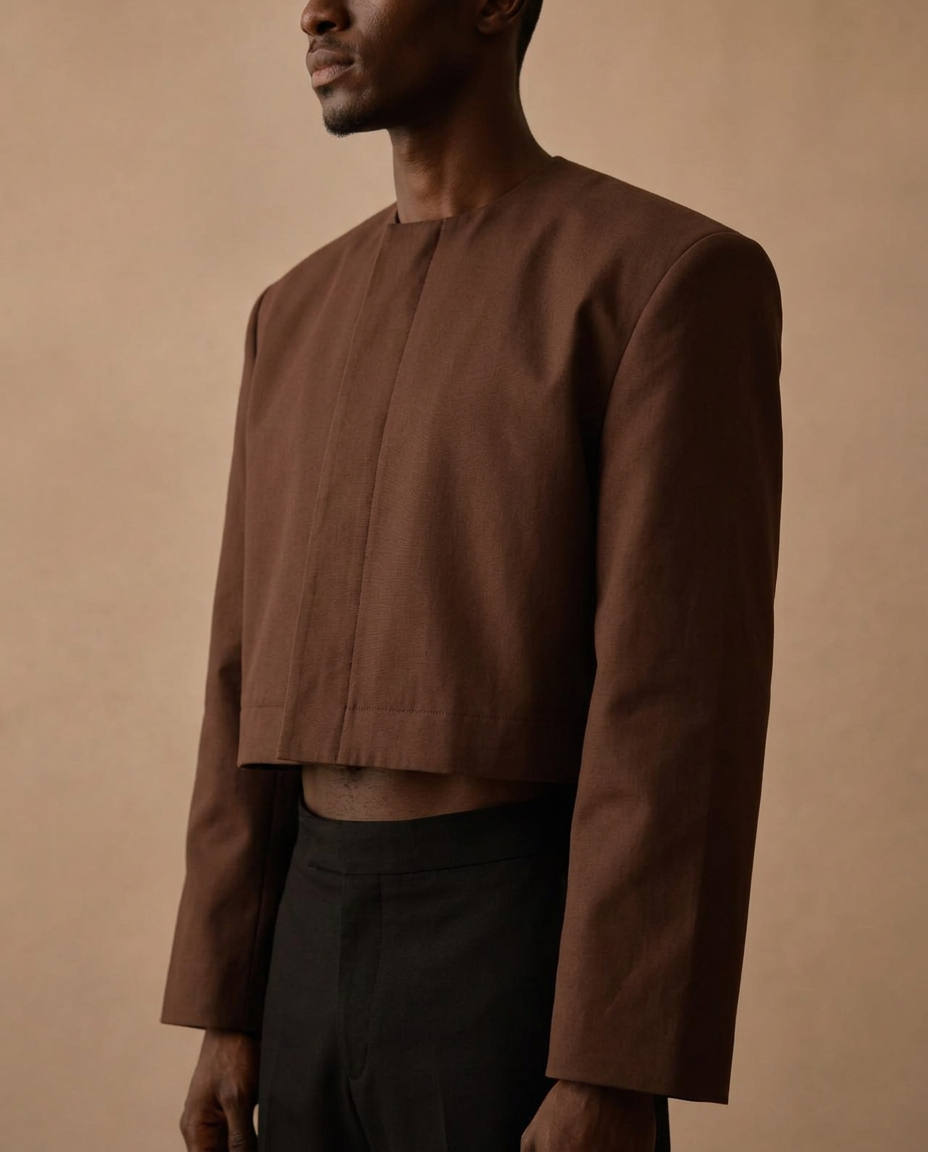
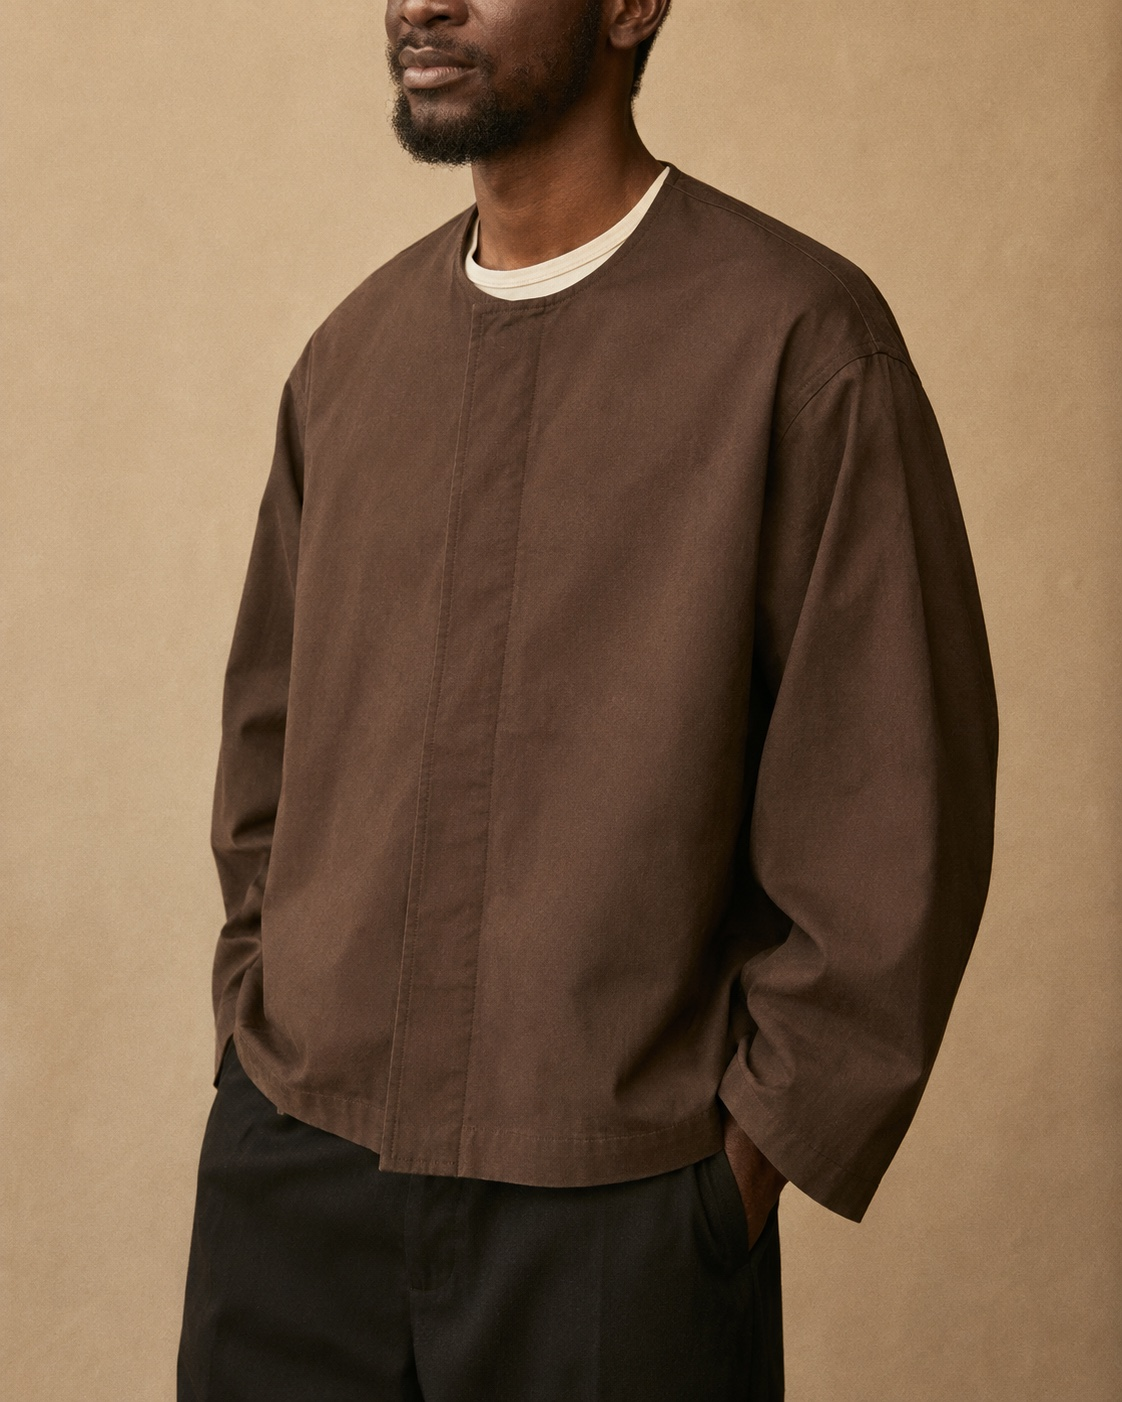
New Kekere photo: relaxed high-hip box jacket, drop the sample caveat

diff --git a/agbada/index.html b/agbada/index.html
@@ -157,12 +157,11 @@
         </figcaption>
       </figure>
       <figure>
-        <img src="assets/look-jacket.jpg" width="928" height="1152" alt="Cocoa cropped jacket in twill">
+        <img src="assets/look-jacket.jpg" width="1122" height="1402" alt="Cocoa box jacket in twill, worn over a cream tee">
         <figcaption>
           <div class="lookname">Kékeré</div>
           <div class="lookcut">Box jacket</div>
-          <p class="lookdesc">High-hip length, relaxed box cut, drop shoulder, cocoa twill.
-          Photo runs shorter and slimmer than ours will — the cut covers the waistband.</p>
+          <p class="lookdesc">High-hip length, relaxed box cut, drop shoulder, cocoa twill.</p>
         </figcaption>
       </figure>
     </div>
